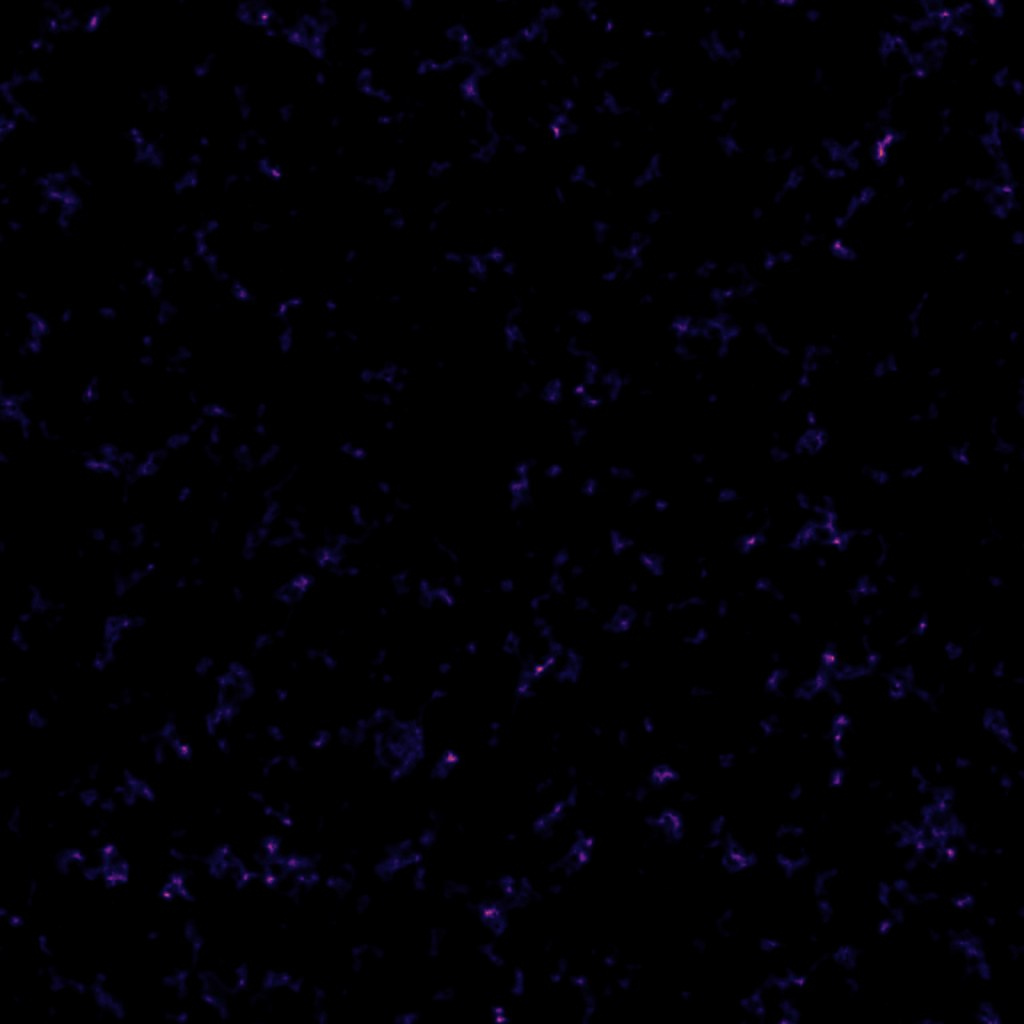
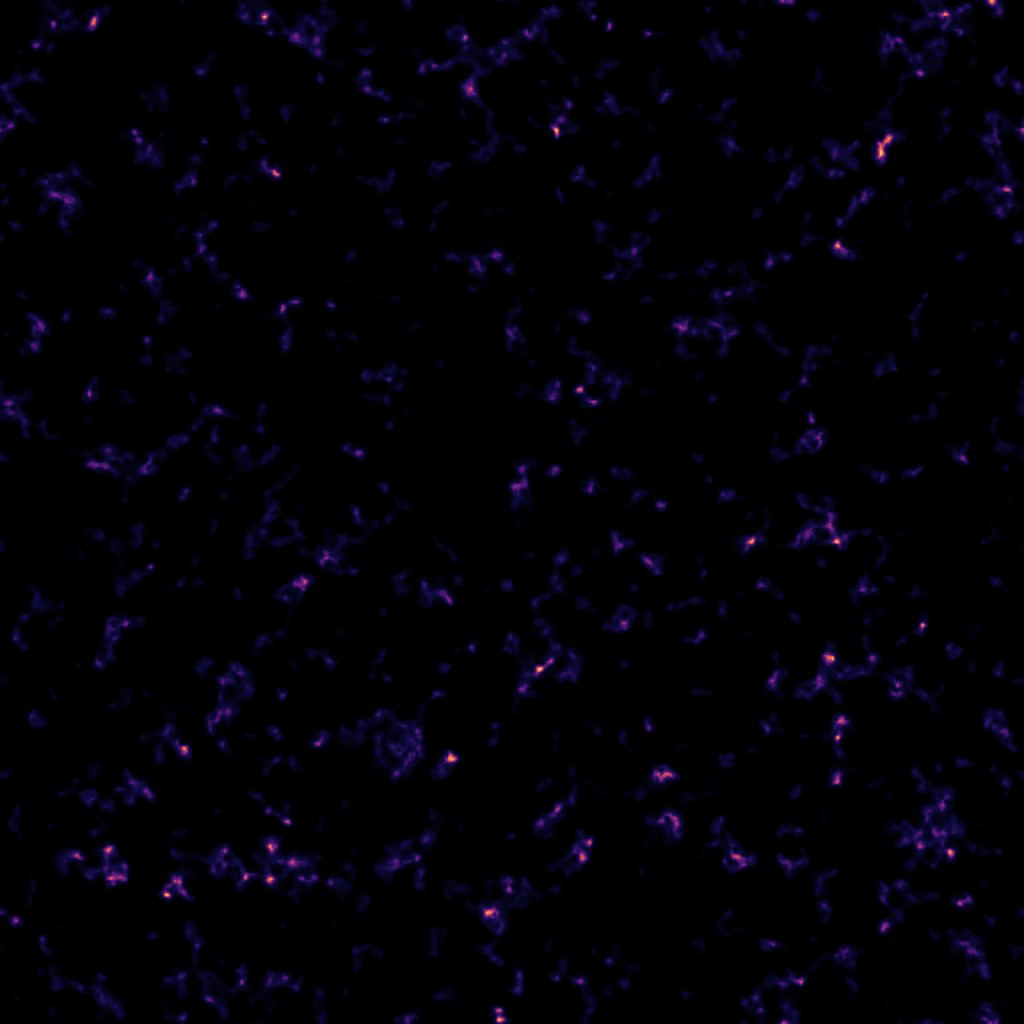
Carte : contraste rehaussé aux époques jeunes (facteur de croissance), tuiles régénérées ; plus de noir avant 3 milliards d'années
Claude-Session: https://claude.ai/code/session_01GHjNcfzL2CJ8gPVCBJ87Be

diff --git a/app/public/carte/index.html b/app/public/carte/index.html
@@ -458,6 +458,15 @@ async function octets(nom, progres) {
 const deBase64 = async txt => new Uint8Array(await (await fetch("data:application/octet-stream;base64," + txt.trim())).arrayBuffer());
 // la Voie lactée est montrée de biais (inclinaison de 62°), pas vue de dessus
 const INCL = { deg: 62, c: Math.cos(62 * Math.PI / 180), s: Math.sin(62 * Math.PI / 180) };
+// facteur de croissance des structures D(a) (approximation de Carroll, Press et Turner),
+// D(1) = 1 ; sert au contraste des époques jeunes : les rides y sont 1/D fois plus faibles
+function croissance(a) {
+  const g = x => { const om = 0.315 / (0.315 + 0.685 * x * x * x), ol = 1 - om; return 2.5 * om / (Math.pow(om, 4 / 7) - ol + (1 + om / 2) * (1 + ol / 70)); };
+  return a * g(a) / g(1);
+}
+// rehaussement du contraste aux époques jeunes (17/11, 19 h 25 : « éviter le noir ») : une fonction
+// connue du temps, pas une statistique de l'image ; pivot à la densité moyenne, les vides restent noirs
+const rehausse = a => Math.min(3, Math.pow(1 / Math.max(croissance(a), 1e-3), 0.6));
 const lisse = (a, b, x) => { const u = Math.min(1, Math.max(0, (x - a) / (b - a))); return u * u * (3 - 2 * u); };
 const matiere = (() => {
   const cvm = document.getElementById("matiere");
@@ -481,14 +490,14 @@ const matiere = (() => {
   };
   const pPts = prog(`#version 300 es
     in vec2 p0; in vec2 p1; in float h0; in float h1;
-    uniform float f, ech, smin, smax; uniform vec2 dec, centre, res;
+    uniform float f, ech, smin, smax, doux; uniform vec2 dec, centre, res;
     out float vw;
     void main() {
       vec2 u = mix(p0, p1, f) / 60000.0 + dec;
       vec2 px = centre + u * ech;
       gl_Position = vec4(px.x / res.x * 2.0 - 1.0, 1.0 - px.y / res.y * 2.0, 0.0, 1.0);
       float h = mix(exp2(h0 / 16.0 - 14.0), exp2(h1 / 16.0 - 14.0), f);
-      float sig = clamp(0.5 * h * ech, smin, smax);
+      float sig = clamp(0.5 * h * ech * doux, smin, smax);
       gl_PointSize = 6.0 * sig;
       vw = 1.0 / (6.2832 * sig * sig);
     }`, `#version 300 es
@@ -577,6 +586,7 @@ const matiere = (() => {
     gl.enableVertexAttribArray(L.h1); gl.vertexAttribPointer(L.h1, 1, gl.UNSIGNED_BYTE, false, 0, j * N);
     gl.uniform1f(U("f"), f); gl.uniform1f(U("ech"), ech);
     gl.uniform1f(U("smin"), 0.7 * DPR); gl.uniform1f(U("smax"), smaxPx ?? 14 * DPR);
+    gl.uniform1f(U("doux"), Math.sqrt(rehausse(a)));   // époques jeunes : noyaux élargis, pas d'anneaux une fois le contraste rehaussé
     gl.uniform2f(U("centre"), cx, cy); gl.uniform2f(U("res"), w, h);
     gl.enable(gl.BLEND); gl.blendFunc(gl.ONE, gl.ONE);
     // budget de points par image : les particules sont dans un ordre aléatoire,
@@ -593,7 +603,7 @@ const matiere = (() => {
     gl.bindFramebuffer(gl.FRAMEBUFFER, null); gl.viewport(vx, vy, vw, vh);
     gl.useProgram(pTon); gl.bindVertexArray(null);
     gl.uniform1i(UT("acc"), 0); gl.uniform1f(UT("m"), m); gl.uniform1f(UT("wk"), wk); gl.uniform1f(UT("rond"), rond ? 1 : 0);
-    gl.uniform1f(UT("contraste"), (a < AS[0] ? Math.max(0, a / AS[0]) : 1) * (contr ?? 1));
+    gl.uniform1f(UT("contraste"), (a < AS[0] ? Math.max(0, a / AS[0]) : 1) * (contr ?? 1) * Math.min(2, rehausse(a)));   // plafond 2 : au-delà, des anneaux autour des grumeaux
     gl.uniform1f(UT("gain"), 1.0 * alpha * (a < AS[0] ? Math.max(0.15, a / AS[0]) : 1));
     gl.uniform1f(UT("fond"), ajout ? 0 : 1);
     if (ajout) { gl.enable(gl.BLEND); gl.blendFunc(gl.ONE, gl.ONE); }
@@ -643,7 +653,7 @@ const matiere = (() => {
     gl.uniform1f(U("ech"), boxPx); gl.uniform2f(U("centre"), cx, cy); gl.uniform2f(U("res"), tw, th);
     // comme pour la toile : zoomé au-delà de l'échantillonnage, les points restent des points
     const smaxPx = DPR * Math.max(0.9, 14 * Math.min(1, 1.2 * tw / boxPx));
-    gl.uniform1f(U("smin"), 0.7 * DPR); gl.uniform1f(U("smax"), smaxPx); gl.uniform2f(U("dec"), 0, 0); gl.uniform1f(U("f"), 0);
+    gl.uniform1f(U("smin"), 0.7 * DPR); gl.uniform1f(U("smax"), smaxPx); gl.uniform1f(U("doux"), 1); gl.uniform2f(U("dec"), 0, 0); gl.uniform1f(U("f"), 0);
     for (const [k, w] of [[i, j === i ? 1 : 1 - f], [j, j === i ? 0 : f]]) {
       if (w < 0.002) continue;
       const o = HL.off[k], n = E[k].n;
@@ -1146,6 +1156,7 @@ function dessine() {
       };
       // fondu enchaîné entre deux époques : addition pondérée (le noir n'ajoute rien)
       ctx.globalCompositeOperation = "lighter";
+      // (époques jeunes : le rehaussement est déjà dans les tuiles, sim/reton.py)
       couche(jeuT[i], j === i ? 1 : 1 - f);
       if (j !== i) couche(jeuT[j], f);
       ctx.globalCompositeOperation = "source-over";
